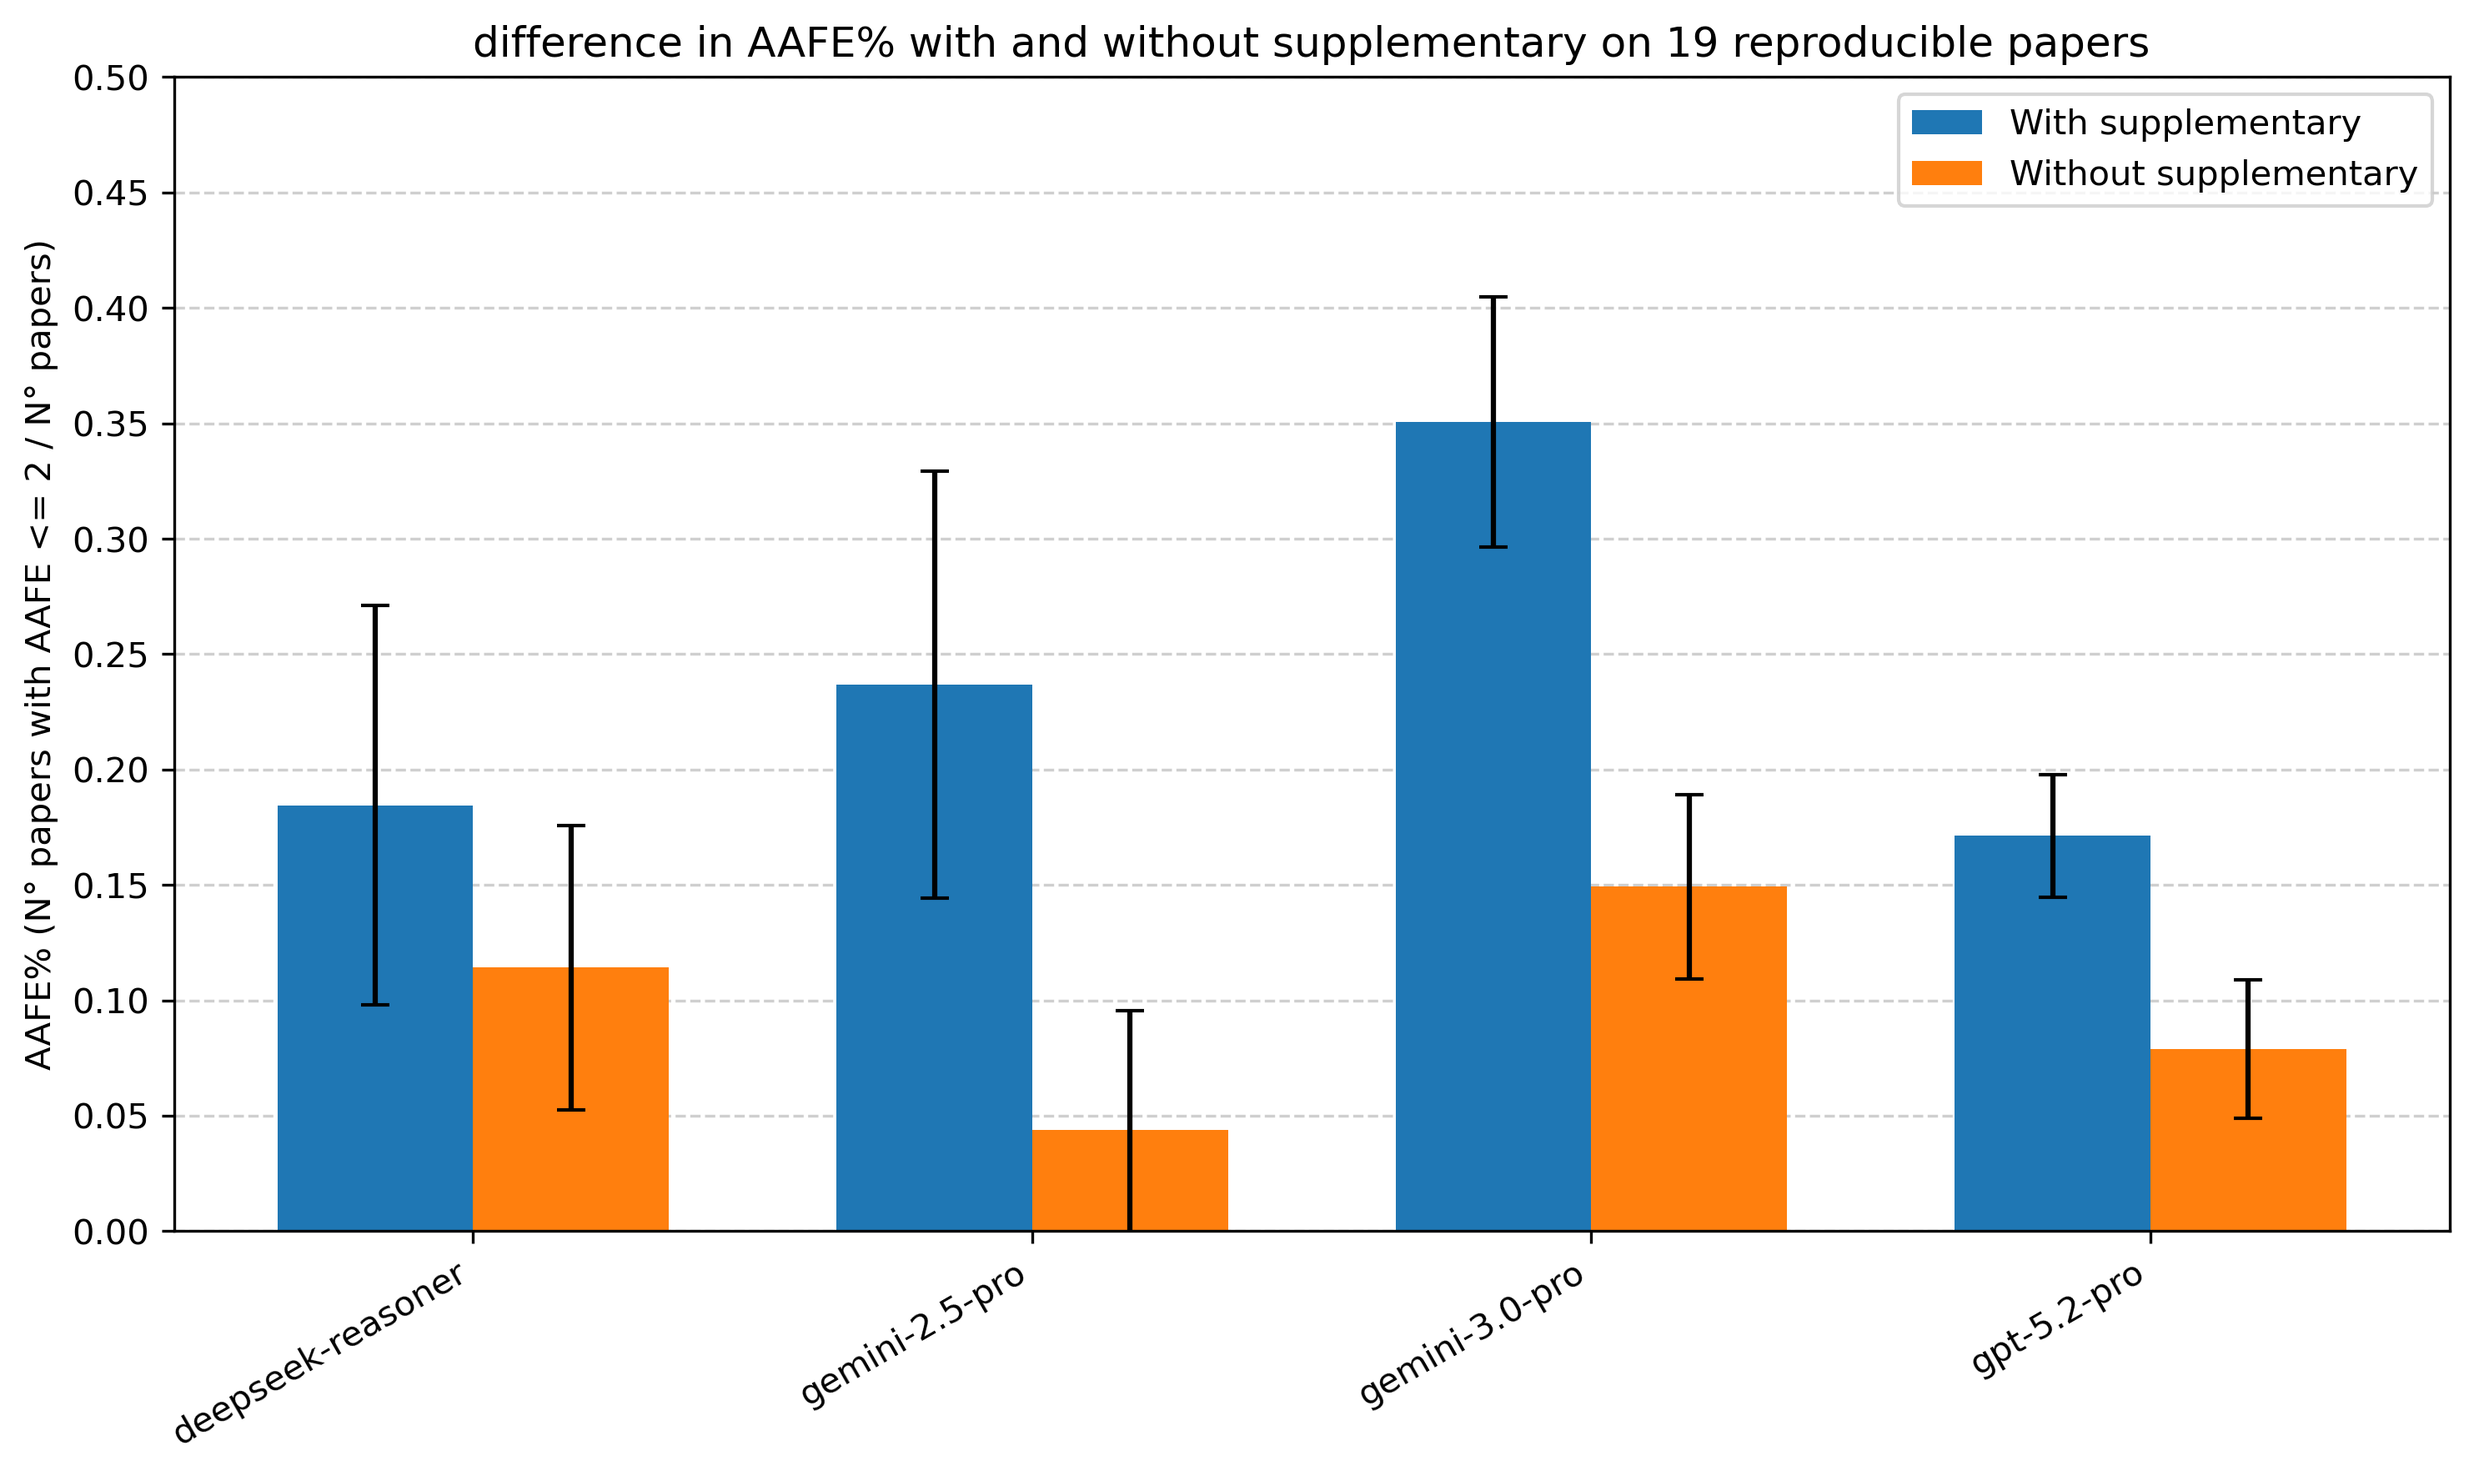
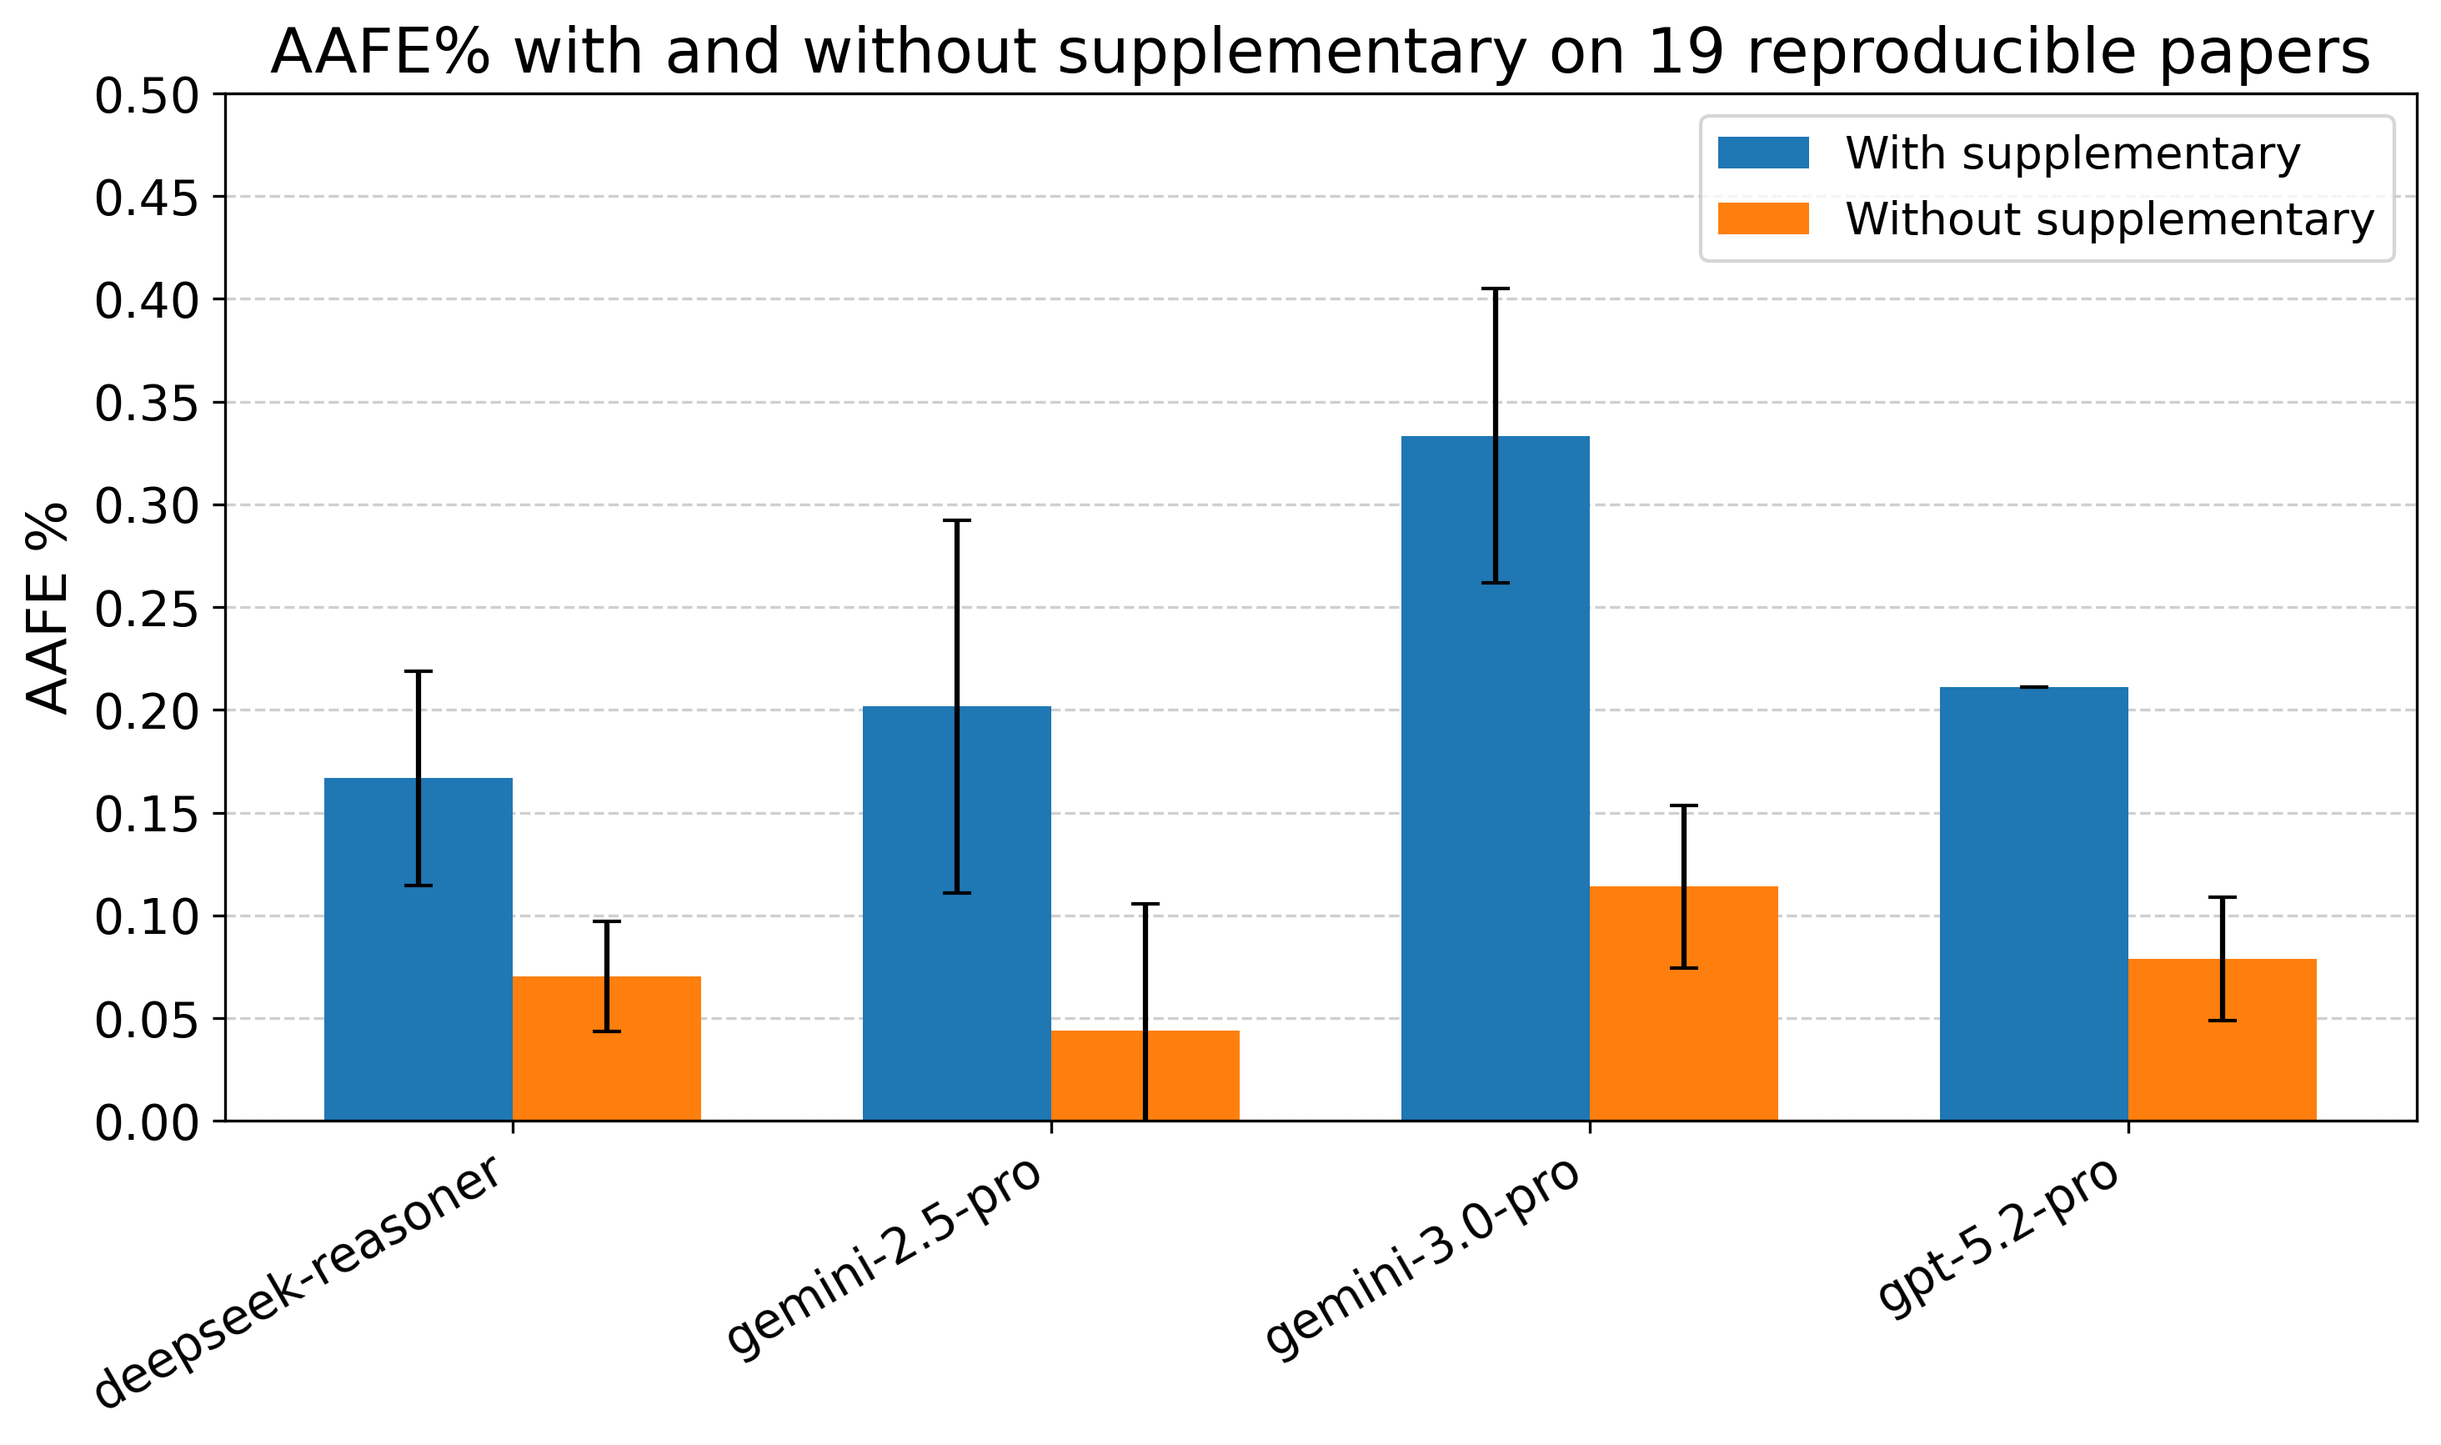
updated figures

Changed region(s): [[0.0, 0.0, 0.9945, 0.966], [0.8702, 0.6232, 0.9635, 0.7167]]

diff --git a/README.md b/README.md
@@ -254,11 +254,11 @@ A generated model satisfies the benchmark reproducibility criterion when **at le
 
 ## Automated Systems Biology Model generation
 
-Using SBMLLM, Gemini 3.0 Pro produced the largest average percentage of models satisfying AAFE < 2 (35.1%), followed by GPT-5.2 Pro (32.0%), GPT-5.0 (26.7%), Gemini 2.5 Pro (26.2%), DeepSeek Reasoner (22.2%), and GPT-5.2 (14.7%).
+Using SBMLLM, Gemini 3.0 Pro produced the largest average percentage of models satisfying AAFE < 2 (33.55%).
 
 [![SBMLLM average performance](figures/radar_all_llms_raw_latest_inputR.png)](figures/radar_all_llms_raw_latest_inputR.png)
 
-**Figure 1. SBMLLM average performance at automated model replication.** Among the evaluated configurations, gemini-3.0-pro generated executable models for 96.46% of papers, recovered 94.23% of species and 86.5% of reactions, and achieved 35.1% dynamical reproducibility.
+**Figure 1. SBMLLM average performance at automated model replication.** Among the evaluated configurations, gemini-3.0-pro generated executable models for 96.46% of papers, recovered 94.23% of species and 86.5% of reactions, and achieved 33.55% dynamical reproducibility.
 
 ## Supplementary information matters
 
@@ -268,11 +268,11 @@ You can collect and convert these sources manually before generating a model.
 
 At **COSBI**, however, we already maintain a literature resource through [**WISE**](https://www.cosbi.eu/news/getting-wise-at-cosbi), where papers and their supplementary information are available in **Markdown format**, ready to be searched and used to inform a new Systems Biology Model. This allows evidence from multiple publications to be combined without preparing every document individually.
 
-The SBMLLM experiments evaluated with SBMLLM-Bench show why this matters: average AAFE% reproducibility decreased from **23.3% to 8.7%** when supplementary materials were unavailable.
+The SBMLLM experiments evaluated with SBMLLM-Bench show why this matters: average AAFE% reproducibility decreased from **26.05% to 15.11%** when supplementary materials were unavailable.
 
 [![Effect of supplementary materials](figures/aafe_input_R_suppl_yes_no.png)](figures/aafe_input_R_suppl_yes_no.png)
 
-**Figure 2. Supplementary materials contain crucial information.** Average reproducibility decreased from 23.3% to 8.7% when supplementary materials were not accessible across the evaluated LLMs.
+**Figure 2. Supplementary materials contain crucial information.** Average reproducibility decreased from 26.05% to 15.11% when supplementary materials were not accessible across the evaluated LLMs.
 
 If you already know the biological system you want to model, or have one or more relevant publications, COSBI can combine **WISE, SBMLLM, and expert curation** to create a new Systems Biology Model or extend an existing one.
 
